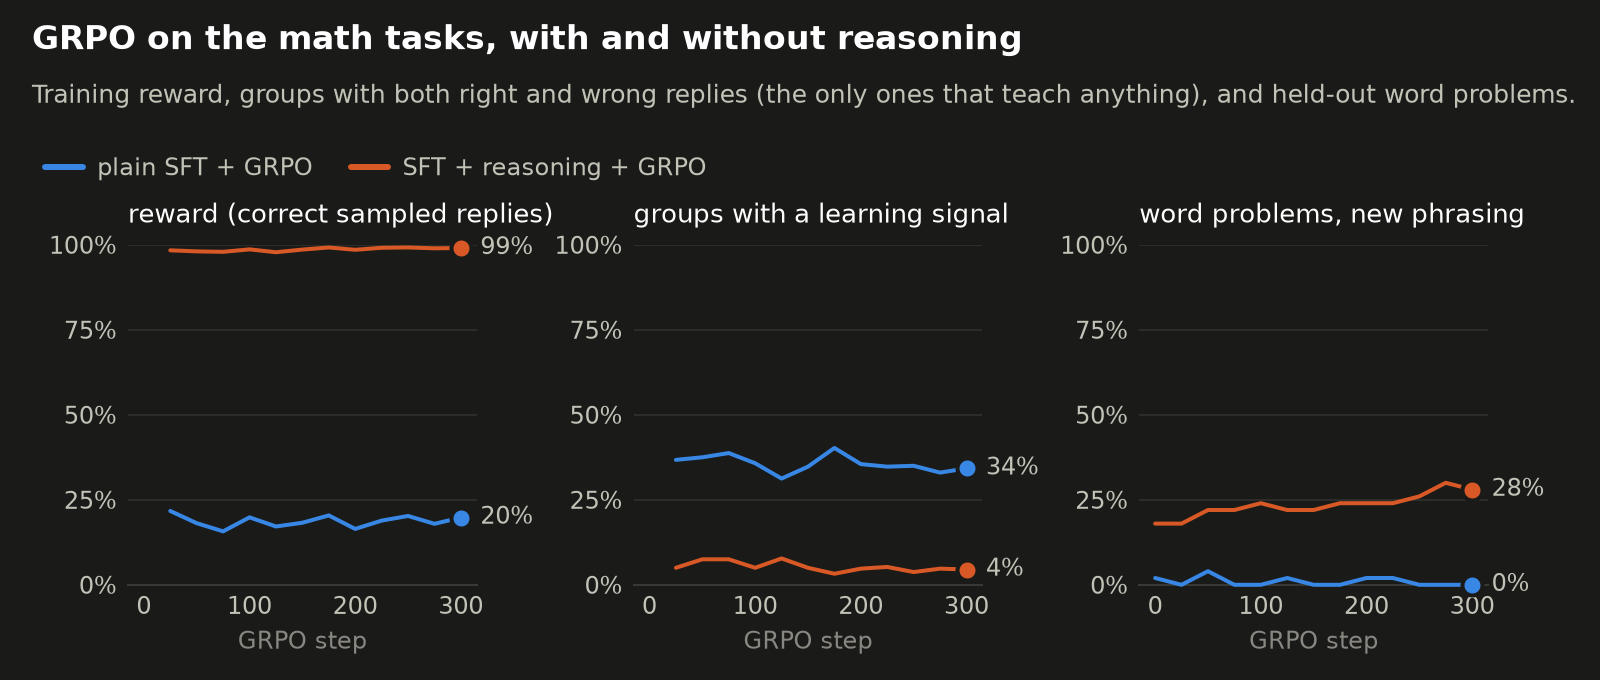
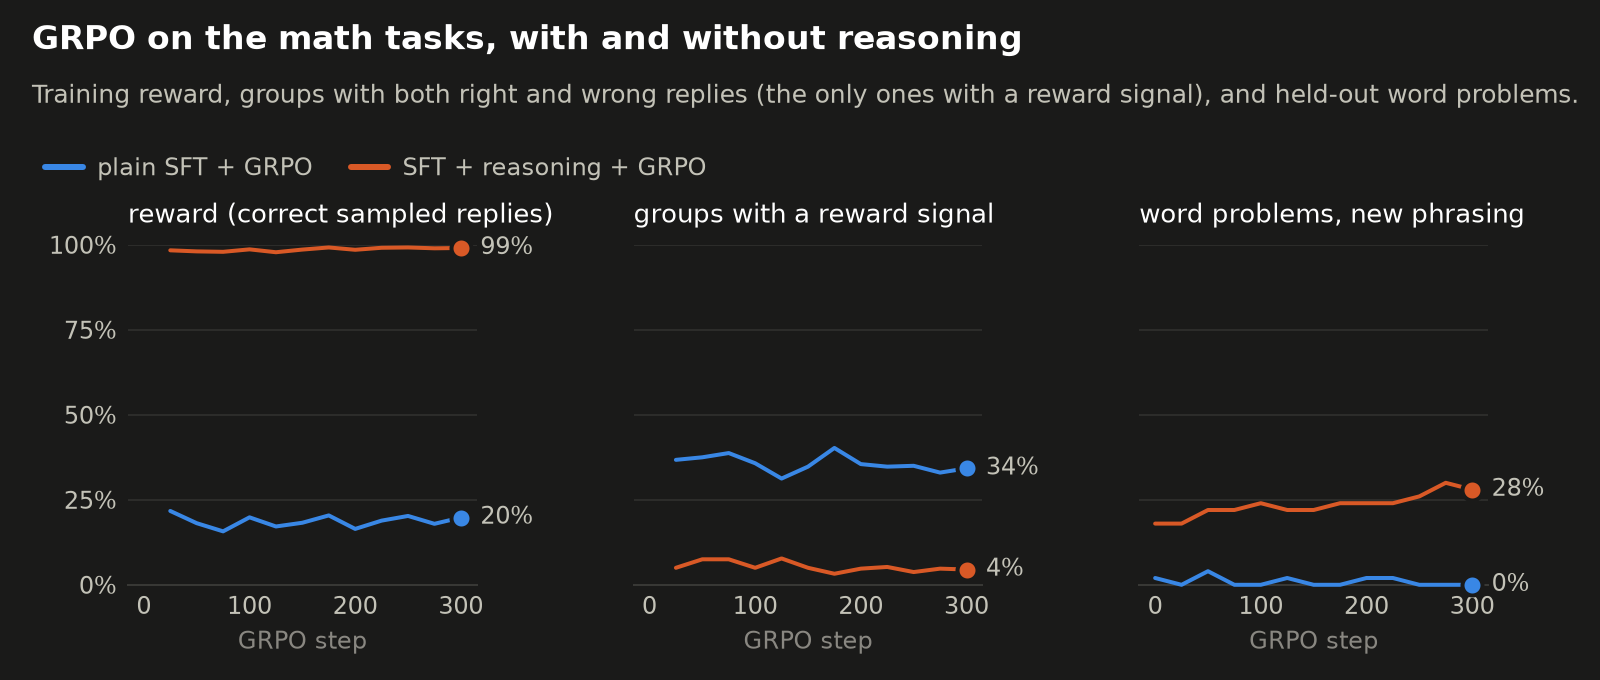
Address Copilot review of the README update
- Quick start: each stage gets its own output file when keeping the
  example models (runs/base.pt, runs/sft.pt, ...), with DPO and GRPO
  starting from runs/sft.pt; the previous advice made every stage
  overwrite the same file.
- GRPO wording: groups whose replies all get the same reward carry no
  reward signal, but the KL penalty still acts on them, so they are no
  longer described as teaching nothing (README and the GRPO figure).
- GRPO figure: the shared 0-100% labels of the second and third panels
  are hidden after percent_axis sets them, not before.

Claude-Session: https://claude.ai/code/session_01HpWxV4LpC7yRxGMyZBnKHA

diff --git a/docs/make_reasoning_figures.py b/docs/make_reasoning_figures.py
@@ -85,8 +85,8 @@ def grpo_curves(t):
     runs = [('SFT + GRPO', read_metrics('experiments/grpo_plain.metrics.jsonl')),
             ('SFT + reasoning + GRPO', read_metrics('grpo_reasoning.metrics.jsonl'))]
     fig, axes = new_figure(t, 'GRPO on the math tasks, with and without reasoning',
-                           'Training reward, groups with both right and wrong replies (the only ones that teach '
-                           'anything), and held-out word problems.', ncols=3, height=3.4,
+                           'Training reward, groups with both right and wrong replies (the only ones with a reward '
+                           'signal), and held-out word problems.', ncols=3, height=3.4,
                            top=0.64, wspace=0.45)
     fig.subplots_adjust(right=0.93)
     legend(fig, t, [show(name) for name, _ in runs], y=0.8)
@@ -98,16 +98,15 @@ def grpo_curves(t):
         x, acc = column(rows, 'acc/word', 100)
         line(axes[2], t, x, acc, color, f'{acc[-1]:.0f}%')
     panel_title(axes[0], t, 'reward (correct sampled replies)')
-    panel_title(axes[1], t, 'groups with a learning signal')
+    panel_title(axes[1], t, 'groups with a reward signal')
     panel_title(axes[2], t, 'word problems, new phrasing')
-    for ax in axes:
-        ax.set_xlim(-15, 315)
-        ax.set_xticks([0, 100, 200, 300])
-        if ax is not axes[0]:
-            ax.set_yticklabels([])  # the three panels share the 0-100% scale
     for ax in axes:
         percent_axis(ax)
         axis_label(ax, t, x='GRPO step')
+        ax.set_xlim(-15, 315)
+        ax.set_xticks([0, 100, 200, 300])
+        if ax is not axes[0]:
+            ax.set_yticklabels([])  # after percent_axis, which sets them: the three panels share the 0-100% scale
     return fig
 
 

diff --git a/README.md b/README.md
@@ -60,7 +60,14 @@ python -m charlm dpo      --config configs/example/dpo.json
 python -m charlm grpo     --config configs/example/grpo.json
 ```
 
-These configs write to `checkpoints/example/`, so they replace the models that come with the repository (`git checkout checkpoints/example` restores them). To keep those, add `--set out_path=runs/base.pt` to each command and point the next stage at it with `init_from=runs/base.pt`, or copy the configs and change their paths.
+These configs write to `checkpoints/example/`, so they replace the models that come with the repository (`git checkout checkpoints/example` restores them). To keep those, give each stage its own output file and point the next stages at it:
+
+```bash
+python -m charlm pretrain --config configs/example/pretrain.json --set out_path=runs/base.pt
+python -m charlm sft      --config configs/example/sft.json  --set init_from=runs/base.pt out_path=runs/sft.pt
+python -m charlm dpo      --config configs/example/dpo.json  --set init_from=runs/sft.pt out_path=runs/dpo.pt
+python -m charlm grpo     --config configs/example/grpo.json --set init_from=runs/sft.pt out_path=runs/grpo.pt
+```
 
 Any config option can be overridden from the command line, which makes quick experiments easy:
 
@@ -200,7 +207,7 @@ GRPO raises addition from 13% to 24% without hurting the other tasks. Over train
 </picture>
 
 Three choices mattered:
-- **It trains on addition only** (`"tasks": ["add"]`). The word tasks are already solved, so every reply in their groups gets the same reward and carries no learning signal. Trained on all tasks, only ~10% of groups had any signal, and addition didn't move (13.0%).
+- **It trains on addition only** (`"tasks": ["add"]`). The word tasks are already solved, so every reply in their groups gets the same reward, and the only thing that acts on them is the KL penalty. Trained on all tasks, only ~10% of groups had any reward signal, and addition didn't move (13.0%).
 - **Groups of 16 replies.** With this group size, ~70% of addition groups contain both right and wrong answers.
 - **A gentle update.** A higher learning rate (3e-4) with a weaker KL penalty (0.01) was unstable: the KL to the reference jumped past 0.8 and the reward fell.
 
@@ -220,7 +227,7 @@ saved model to checkpoints/example/grpo.pt
 
 - `reward`: the share of sampled replies that were correct in this step's groups.
 - `kl`: how far the model has moved from the SFT model, per token.
-- `groups_with_signal`: the share of groups with both right and wrong replies. Only those groups teach the model anything.
+- `groups_with_signal`: the share of groups with both right and wrong replies. Only those have a reward signal; the KL penalty acts on every group, but it only pulls the model back toward the SFT model.
 - `acc/...`: greedy accuracy on held-out prompts, measured every 25 steps.
 
 </details>
@@ -329,7 +336,7 @@ The equation column checks the equation the model writes first (like `12/3:`) by
 
 With the new phrasing, the model mostly writes the wrong equation first. It reads "There are 7 marbles and 8 more arrive" as `87+8`, and "Adam puts 20 stickers into 5 equal groups" as `20+5`. Three phrasings per operation are not enough for a character-level model to learn what the words mean. More phrasings, or a bigger model pretrained on more English (like the [Colab model](#a-bigger-model-on-a-gpu-colab)), are the natural next experiments.
 
-**GRPO has little left to teach, but it helps with the new phrasing.** The reasoning model already gets 99% of its sampled training replies right, so only ~5% of the groups contain both a right and a wrong reply, and only those carry a learning signal. The arithmetic stays at 99-100%. Still, held-out word problems rise from 22% to 34%, although GRPO trains only on the three training phrasings. The gains have different causes. Multiplication stories go from 1% to 22% because the model now reads them right: its first equation is right 22% of the time instead of 1%. Addition stories go from 25% to 45% although the model writes the right equation just as often (50% before, 49% after): it now finishes the sum it wrote more often. The plain model's GRPO run goes nowhere: its reward stays near 20%, and no task's held-out accuracy moves by more than 4 points. GRPO took 5 minutes for the plain model and 13 for the reasoning one.
+**GRPO has little left to teach, but it helps with the new phrasing.** The reasoning model already gets 99% of its sampled training replies right, so only ~5% of the groups contain both a right and a wrong reply, and only those carry a reward signal (the KL penalty acts on all of them, but it only pulls the model back toward the SFT model). The arithmetic stays at 99-100%. Still, held-out word problems rise from 22% to 34%, although GRPO trains only on the three training phrasings. The gains have different causes. Multiplication stories go from 1% to 22% because the model now reads them right: its first equation is right 22% of the time instead of 1%. Addition stories go from 25% to 45% although the model writes the right equation just as often (50% before, 49% after): it now finishes the sum it wrote more often. The plain model's GRPO run goes nowhere: its reward stays near 20%, and no task's held-out accuracy moves by more than 4 points. GRPO took 5 minutes for the plain model and 13 for the reasoning one.
 
 <picture>
   <source media="(prefers-color-scheme: dark)" srcset="docs/figures/reasoning_grpo_dark.png">
@@ -474,7 +481,7 @@ loss = -log sigmoid(beta * ((log π(chosen) - log π_ref(chosen)) - (log π(reje
 
 1. Sample `batch_size` training prompts from `tasks` and `group_size` replies to each, at temperature 1.
 2. Reward each reply: 1 if it is correct, 0 if not.
-3. Compute each reply's advantage relative to its own group: `(reward - group mean) / group std`. If a group's replies are all right or all wrong, they carry no signal.
+3. Compute each reply's advantage relative to its own group: `(reward - group mean) / group std`. If a group's replies are all right or all wrong, their advantages are all 0: they carry no reward signal, and only the KL penalty below acts on them.
 4. Update the model with the PPO clipped objective on the reply tokens, plus a KL penalty (k3 estimator) that keeps it close to the reference model:
 
 ```
